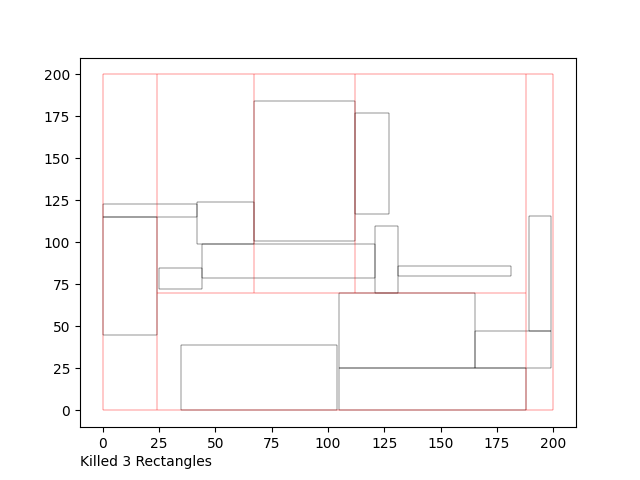
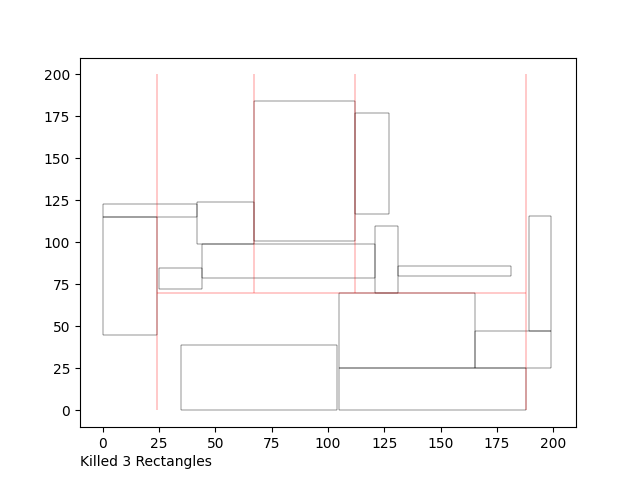
Resolved import error

Changed region(s): [[0.1562, 0.8438, 0.875, 0.875], [0.1562, 0.125, 0.8438, 0.1562]]

diff --git a/CrossEntropy.py b/CrossEntropy.py
@@ -24,7 +24,7 @@ import matplotlib.pyplot as plt
 from OptimalCuts import Rectangle, intervalsIntersect, optimalCuts
 from plotGenerations import plot_rectangles
 
-N = 8  # Number of rectangles to be generated
+N = 19  # Number of rectangles to be generated
 
 LEARNING_RATE = 0.0001 # Increase this to make convergence faster, decrease if the algorithm gets stuck in local optima too often.
 n_sessions = 1000 # number of new sessions per iteration - batch size
@@ -630,7 +630,7 @@ sessgen_time = 0
 fit_time = 0
 score_time = 0
 
-myRand = 16 # run number used in the filename
+myRand = 14 # run number used in the filename
 
 '''
 sessions = generate_session(model,2,0)	# Play one episode and evaluate it

diff --git a/plotGenerations.py b/plotGenerations.py
@@ -42,7 +42,7 @@ def plot_rectangles_with_cuts(rects, min, max, idx):
         ax.add_patch(patches.Rectangle(rect.bottomLeft, rect.topRight[0] - rect.bottomLeft[0], rect.topRight[1] - rect.bottomLeft[1], edgecolor = 'black', fill=False, lw=0.3))
     
     # Draw Cuts
-    numCuts = len(cuts)/2
+    numCuts = len(cuts)//2
 
     for i in range(numCuts):
         

diff --git a/OptimalCuts.py b/OptimalCuts.py
@@ -1,7 +1,5 @@
 from collections import namedtuple
 
-from plotGenerations import plot_rectangles
-
 # max number of cut through rectangles - this is a very safe upper bound as we are not going beyond n = 20
 INF = 10000
 
